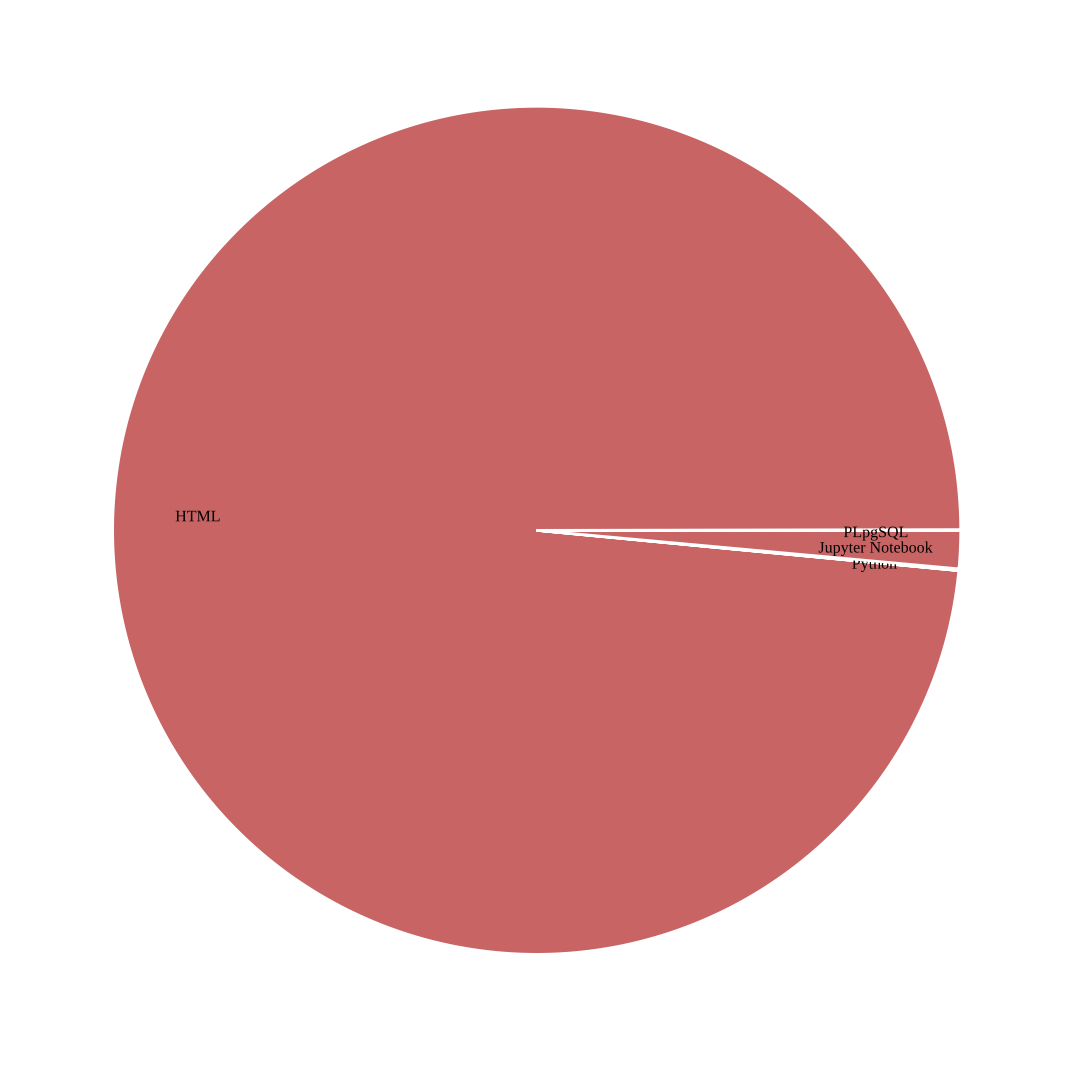
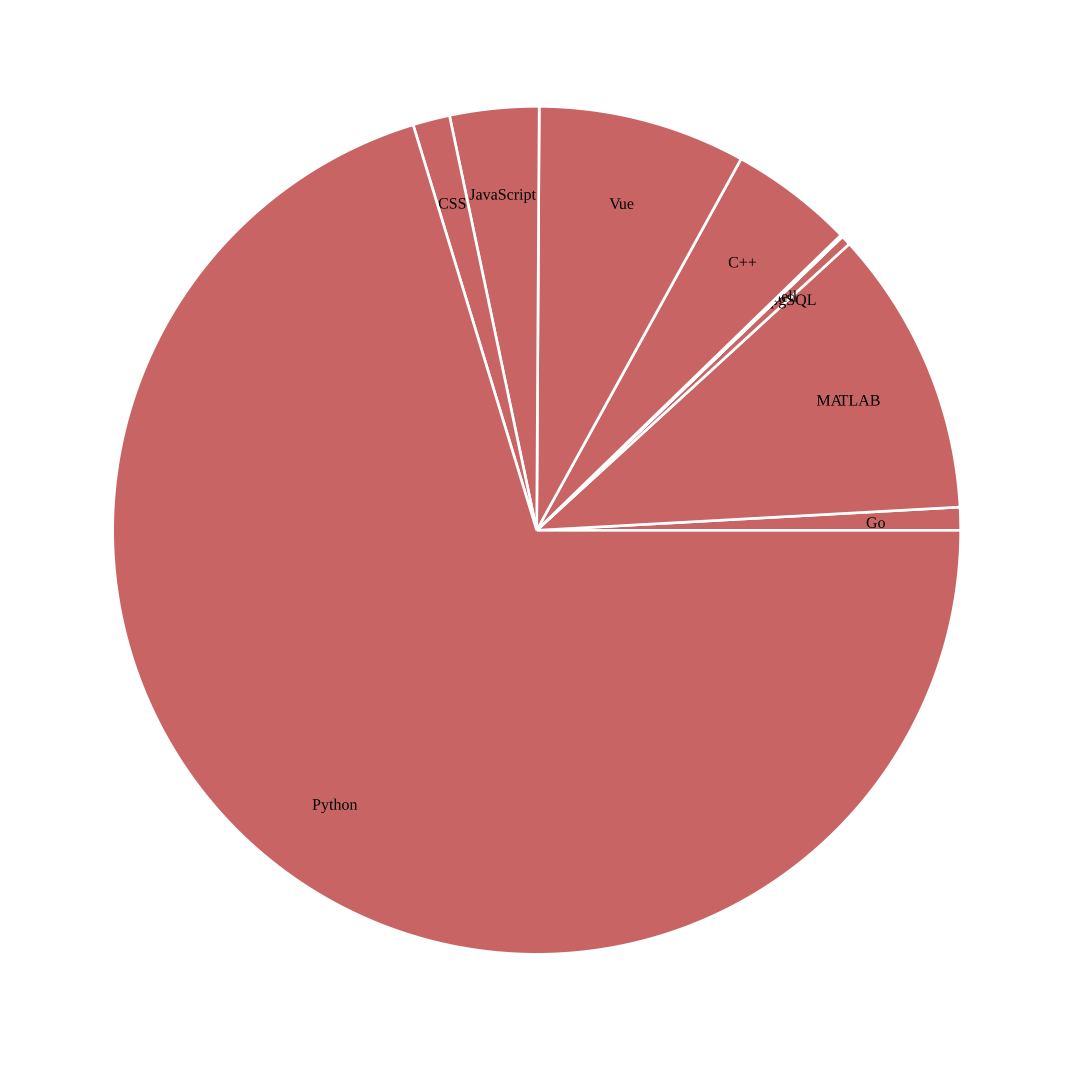
Removed HTML and Jupyter Notebook from plot

diff --git a/main.go b/main.go
@@ -114,8 +114,10 @@ func plotDistribution(data map[string]float64) {
 	var keys []string
 	var values []float64
 	for key, value := range data {
-		keys = append(keys, key)
-		values = append(values, value)
+		if key != "HTML" && key != "Jupyter Notebook" {
+			keys = append(keys, key)
+			values = append(values, value)
+		}
 	}
 
 	p := plot.New()
